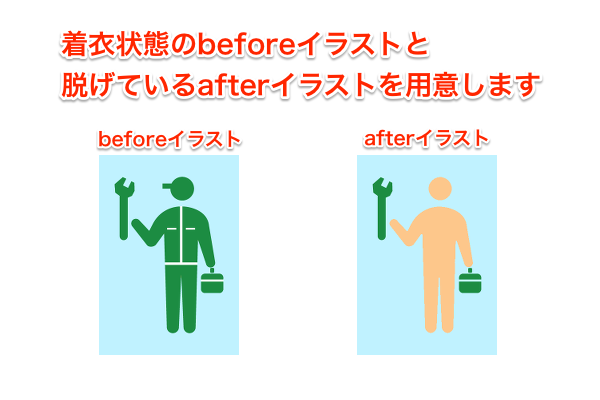
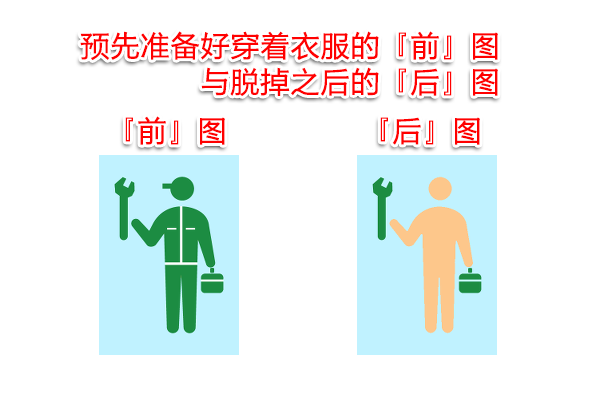
图片粗翻,修正大小参数的表述

Changed region(s): [[0.09, 0.06, 0.9, 0.39]]

diff --git a/index.html b/index.html
@@ -107,6 +107,11 @@ Tumblr上传时强烈推荐使用WebM视频格式（*.webm）。
 <dd>A, 可以尝试原图在导入制作前保存成gif格式，人工预处理减色，上述问题就会好些了。</dd>
 </dl>
 </div>
+<hr />
+<div>
+本页面维护人：<br />
+<a href="http://weibo.com/u/2812179132?s=6uyXnP" target="_blank"><img border="0" src="http://service.t.sina.com.cn/widget/qmd/2812179132/85101bdf/1.png"/></a>
+</div>
 <br />
 <br />
 <br />
@@ -151,19 +156,19 @@ var settingText = ''
 + '<form name="compressConfig">'
 + ' <div style="width: 50%; background-color: #FFFF88;">'
 + ' GIF图片'
-+ ' <input type="radio" name="compressType" value="twitter" checked>Twitter专用</input>'
++ ' <input type="radio" name="compressType" value="twitter">Twitter专用</input>'
 + ' <input type="radio" name="compressType" value="tumblr">Tumblr专用</input>'
-+ ' <input type="radio" name="compressType" value="none">原始尺寸</input>'
++ ' <input type="radio" name="compressType" value="none" checked>原始尺寸</input>'
 + ' </div>'
 + ' <div style="width: 50%; background-color: #FFFF88;">'
-+ ' 大小质量调整 更小、质量更低'
++ ' 大小调整 X0.7 更小'
 + ' <input type="radio" name="sizeType" value="smallest_ex"></input>'
 + ' <input type="radio" name="sizeType" value="smallest"></input>'
 + ' <input type="radio" name="sizeType" value="smaller"></input>'
 + ' <input type="radio" name="sizeType" value="middle" checked></input>'
 + ' <input type="radio" name="sizeType" value="larger"></input>'
 + ' <input type="radio" name="sizeType" value="largest"></input>'
-+ ' <input type="radio" name="sizeType" value="largest_ex"></input> 更大、质量更高'
++ ' <input type="radio" name="sizeType" value="largest_ex"></input> X1.3 更大'
 + ' </div>'
 + ' <div style="width: 50%; background-color: #FFAA88;">'
 + ' WebM视频';
